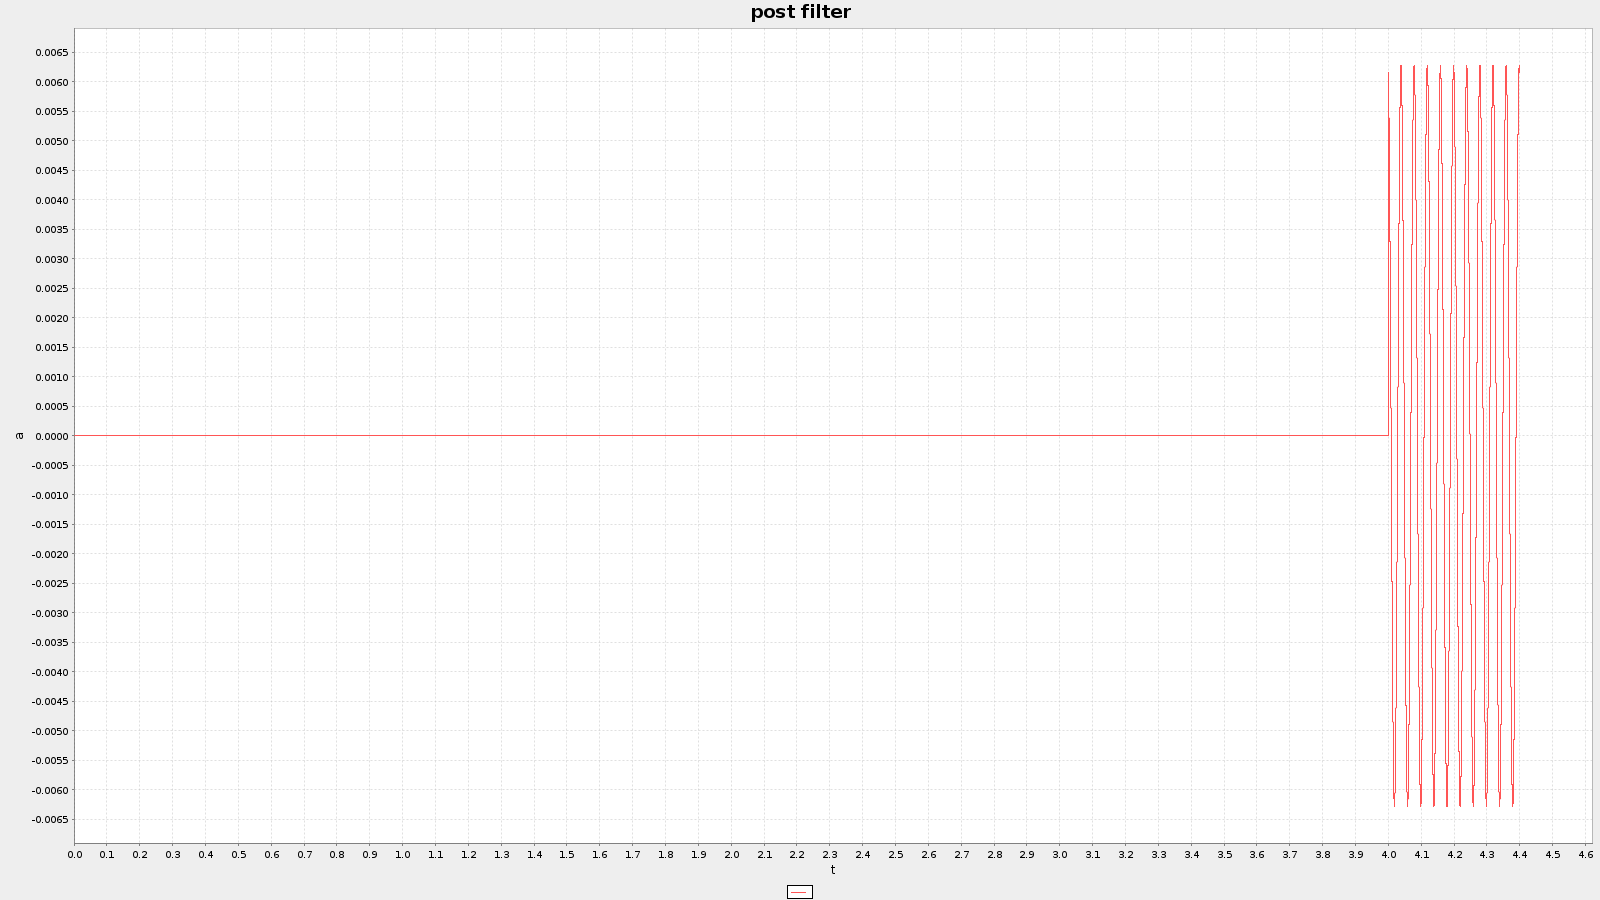
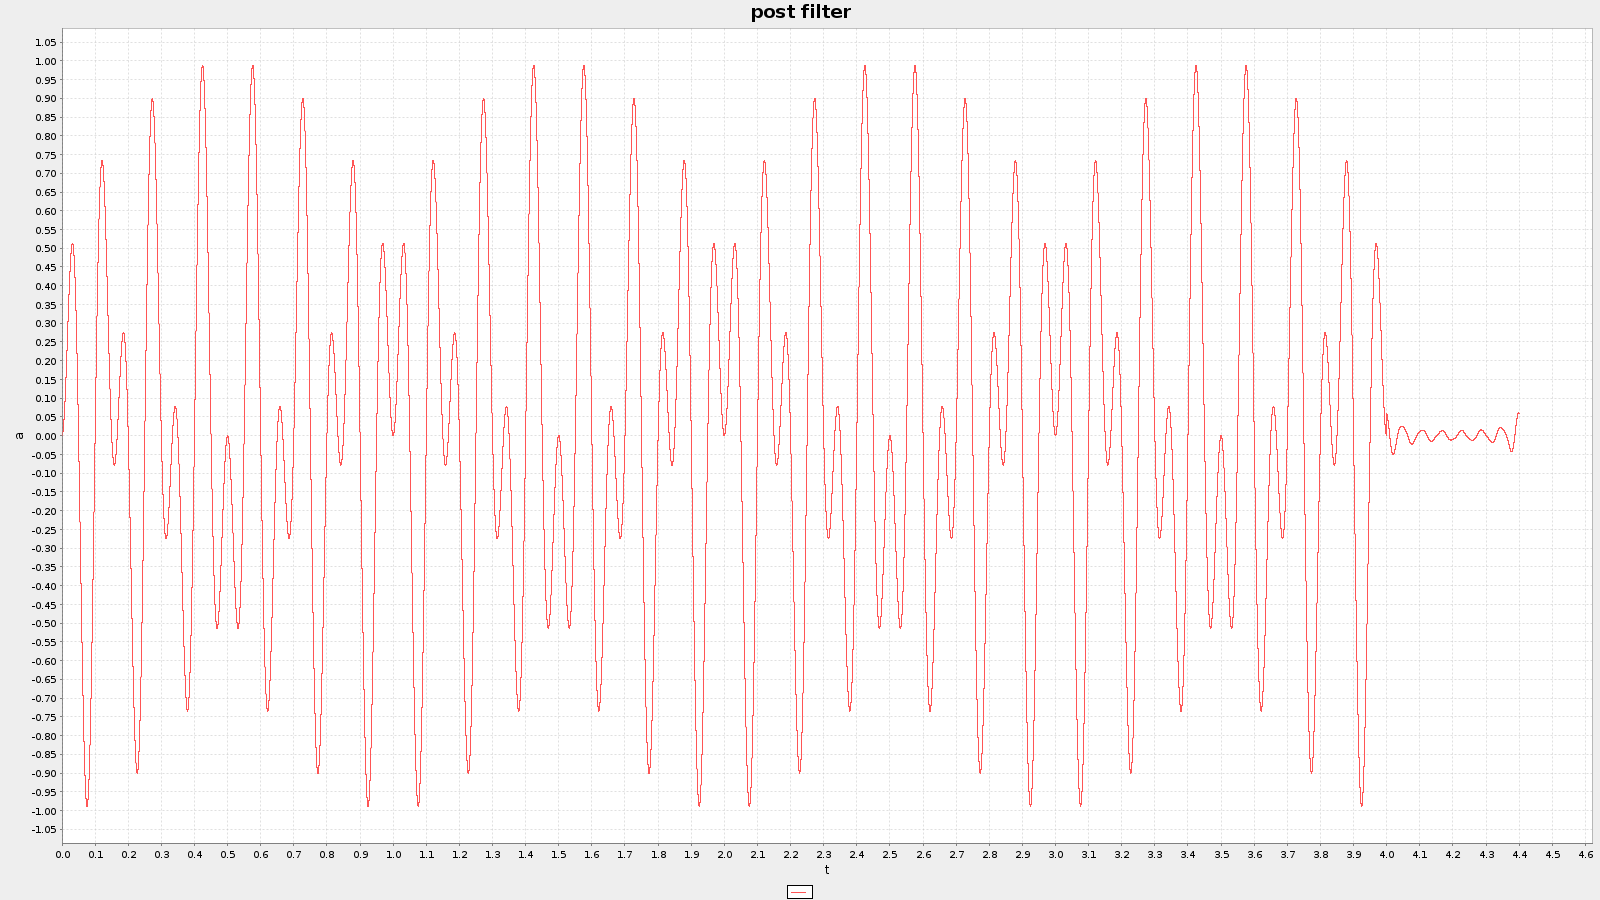
bit of refactoring

diff --git a/channel-simulation/java-channel-simulation/src/main/java/main/Simulator.java b/channel-simulation/java-channel-simulation/src/main/java/main/Simulator.java
@@ -1,6 +1,7 @@
 package main;
 
 import demodulator.Demodulator;
+import demodulator.QAMDemodulator;
 import display.SimulatorSettings;
 import display.SimulatorView;
 import modulator.ASKModulator;
@@ -84,7 +85,7 @@ public class Simulator {
             xydata[i] = new XYDataItem(i * step, f[i]);
         }
         Plotter.plot("pre filter", "assets/prefilter.png", "t", "a", new XYDataItem(1600, 900), xydata);
-        new Filter(9, 11).filter(f, step);
+        new Filter(6, 15).filter(f, step);
         xydata = new XYDataItem[f.length];
         for (int i = 0; i < xydata.length; i++) {
             xydata[i] = new XYDataItem(i * step, f[i]);
@@ -102,7 +103,7 @@ public class Simulator {
 
         String path = "../assets/frames";
         // todo reset this
-        int framesToPlay = getNumFrames(path);
+        int framesToPlay = 5;//getNumFrames(path);
         Modulator modulator = simulatorSettings.getModulator();
         byte[] data = readImages(path, framesToPlay);
         Dimension imageSize = readImageSize(path);
@@ -112,9 +113,11 @@ public class Simulator {
         int framerate = 25;
 
         System.out.println("modulating...");
-        float[] amp = modulator.calculate(data, timeStep);
+        float[] samples = modulator.calculate(data, timeStep);
         System.out.println("demodulating...");
-        Demodulator demodulator = ModulatorFactory.getDemodulator(modulator, amp, timeStep);
+        Demodulator demodulator = ModulatorFactory.getDemodulator(modulator, samples, timeStep);
+        assert demodulator != null;
+        demodulator.initialCalculate(samples);
 
         simulatorSettings.dispose();
 
@@ -122,7 +125,7 @@ public class Simulator {
         Thread simulatorViewThread = new Thread(simulatorView);
         simulatorViewThread.setName("Simulator-View-Thread");
 
-        DemodulationController controller = new DemodulationController(demodulator, simulatorView, amp);
+        DemodulationController controller = new DemodulationController(demodulator, simulatorView, samples);
         Thread controllerThread = new Thread(controller);
         controllerThread.setName("Controller-Thread");
 

diff --git a/channel-simulation/java-channel-simulation/src/main/java/demodulator/QAMDemodulator.java b/channel-simulation/java-channel-simulation/src/main/java/demodulator/QAMDemodulator.java
@@ -25,8 +25,6 @@ public class QAMDemodulator extends Demodulator {
         float avgI = this.sumAmpI / this.samplesPerSymbolPeriod;
         float avgQ = this.sumAmpQ / this.samplesPerSymbolPeriod;
 
-        System.out.println(avgI);
-
         byte iVal = 0, qVal = 0;
         float div = this.carrierAmplitude / (levels-1);
         for (byte i = 0; i < levels; i++) {
@@ -42,8 +40,8 @@ public class QAMDemodulator extends Demodulator {
     }
 
     @Override
-    protected void initialCalculate(float[] samples, float timeStep) {
-        new Filter(0, (int) Math.ceil(this.carrierFrequency) + 20).filter(samples, this.timeStep);
+    public void initialCalculate(float[] samples) {
+        new Filter(0, (int) Math.ceil(this.carrierFrequency + 20)).filter(samples, this.timeStep);
         this.samples = samples;
     }
 
@@ -106,5 +104,9 @@ public class QAMDemodulator extends Demodulator {
         this.transitions = 0;
         this.sumAmpI = 0;
         this.sumAmpQ = 0;
+    }
+
+    public float getCarrierFrequency() {
+        return this.carrierFrequency;
     }
 }

diff --git a/channel-simulation/java-channel-simulation/src/main/java/util/Filter.java b/channel-simulation/java-channel-simulation/src/main/java/util/Filter.java
@@ -21,16 +21,18 @@ public class Filter {
 
         int samplesPerSecond = (int) Math.round(1d / timeStep);
         for (int i = 0; (i + 1) * samplesPerSecond < samples.length; i++) {
+            long start = System.currentTimeMillis();
             float[] newSamples = new float[samplesPerSecond * 2];
             System.arraycopy(samples, i * samplesPerSecond, newSamples, 0, samplesPerSecond);
             FloatFFT_1D fft = new FloatFFT_1D(samplesPerSecond);
             fft.realForward(newSamples);
-
             removeFrequencies(newSamples);
             fft.complexInverse(newSamples, false);
 
             for (int j = 0; j < newSamples.length / 2; j++)
                 samples[j + i * samplesPerSecond] = newSamples[j * 2] / ((float) samplesPerSecond / 2);
+
+            System.out.println(System.currentTimeMillis() - start);
         }
 
         float[] newSamples = new float[(samples.length % samplesPerSecond) * 2];

diff --git a/channel-simulation/java-channel-simulation/src/main/java/demodulator/Demodulator.java b/channel-simulation/java-channel-simulation/src/main/java/demodulator/Demodulator.java
@@ -11,7 +11,7 @@ public abstract class Demodulator {
 
     public final Buffer buffer = new Buffer();
 
-    protected abstract void initialCalculate(float[] samples, float timeStep);
+    public abstract void initialCalculate(float[] samples);
 
     public abstract void next(float noise);
 
@@ -50,6 +50,7 @@ public abstract class Demodulator {
 
     public Demodulator(float[] samples, float timeStep) {
         this.timeStep = timeStep;
-        initialCalculate(samples, timeStep);
     }
+
+
 }

diff --git a/channel-simulation/java-channel-simulation/src/main/java/demodulator/ASKDemodulator.java b/channel-simulation/java-channel-simulation/src/main/java/demodulator/ASKDemodulator.java
@@ -10,7 +10,7 @@ public class ASKDemodulator extends Demodulator {
                                     // then bitMask = 0000 0100
 
     @Override
-    public void initialCalculate(float[] samples, float timeStep) {
+    public void initialCalculate(float[] samples) {
         this.samples = samples;
     }
 
